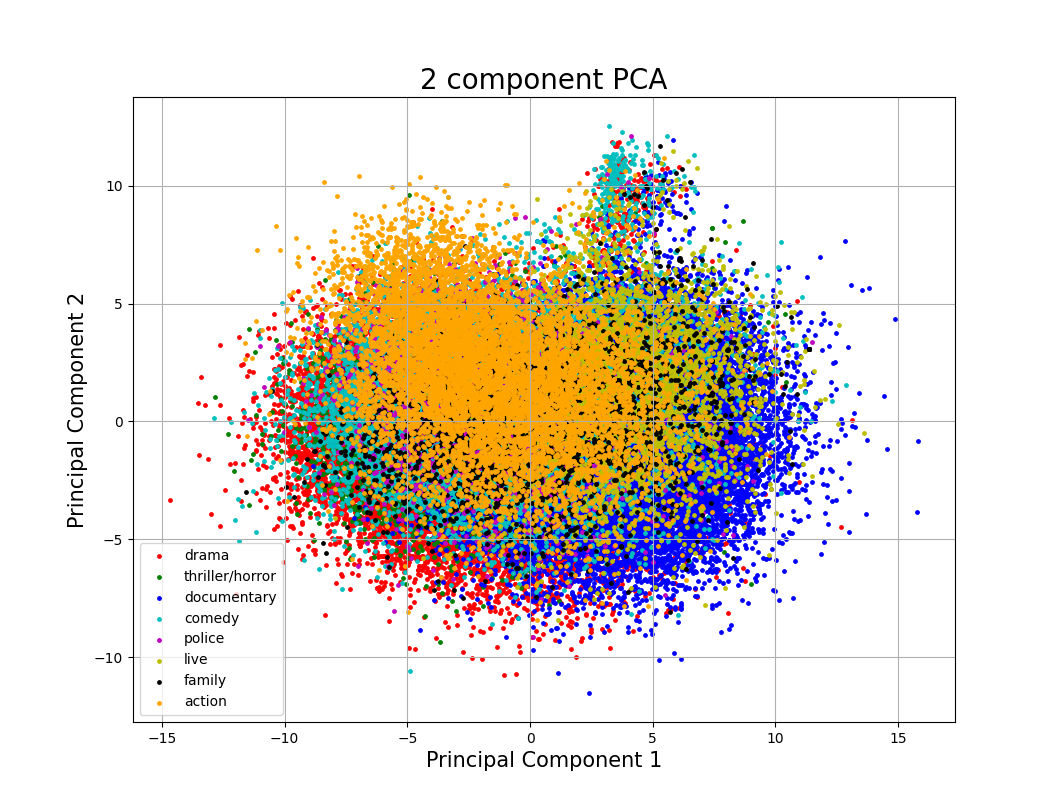
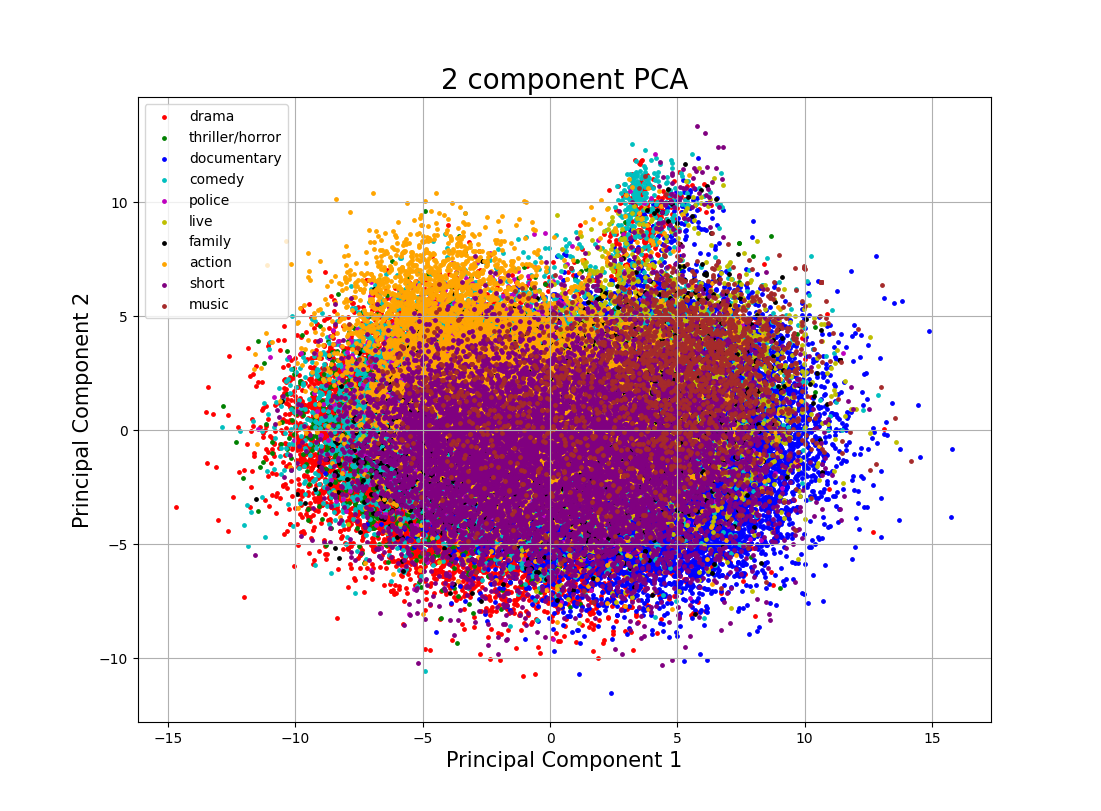
fix: 1 color per group in pca plot

diff --git a/pca_embed.py b/pca_embed.py
@@ -59,6 +59,8 @@ def plot_pca(df):
         "y",
         "k",
         "orange",
+        "purple",
+        "brown",
     ]
     for target, color in zip(targets, colors):
         indicesToKeep = df["genre"] == target
